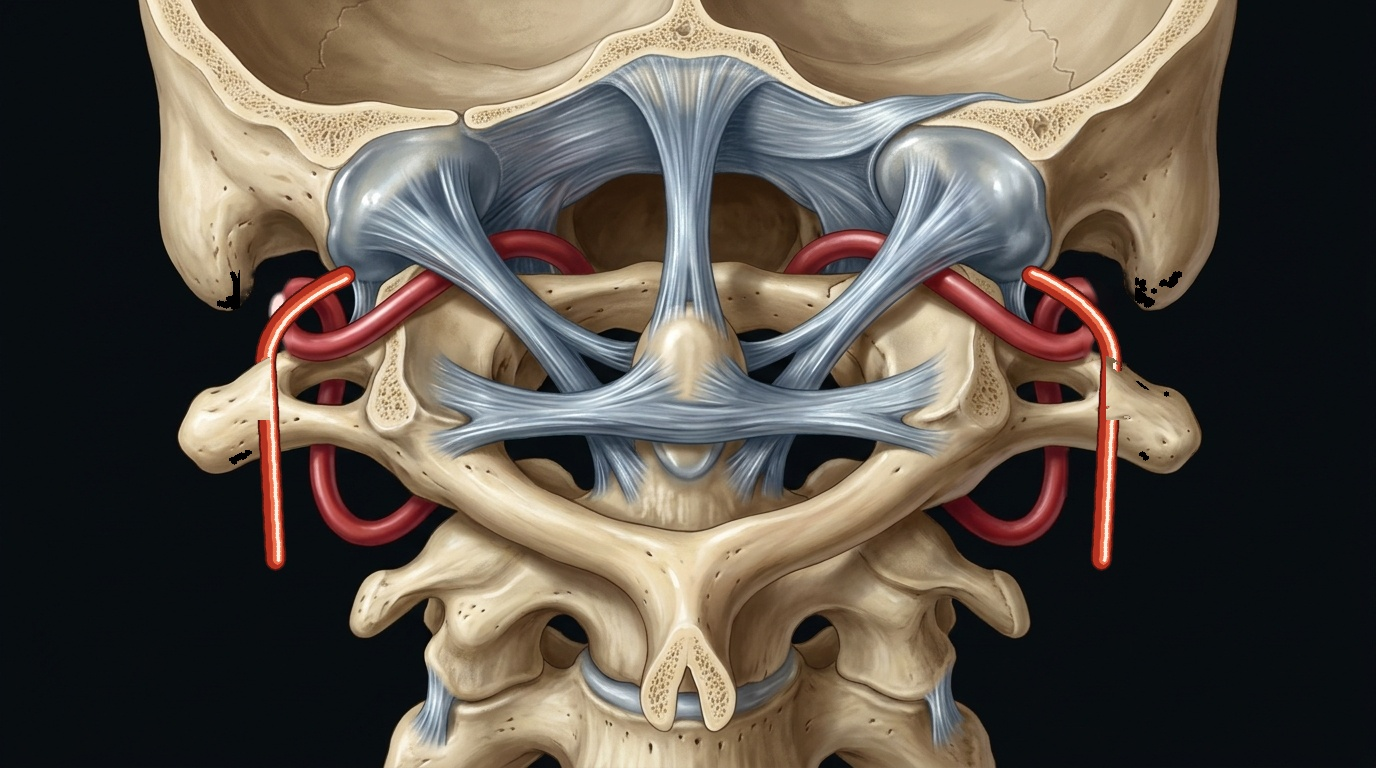
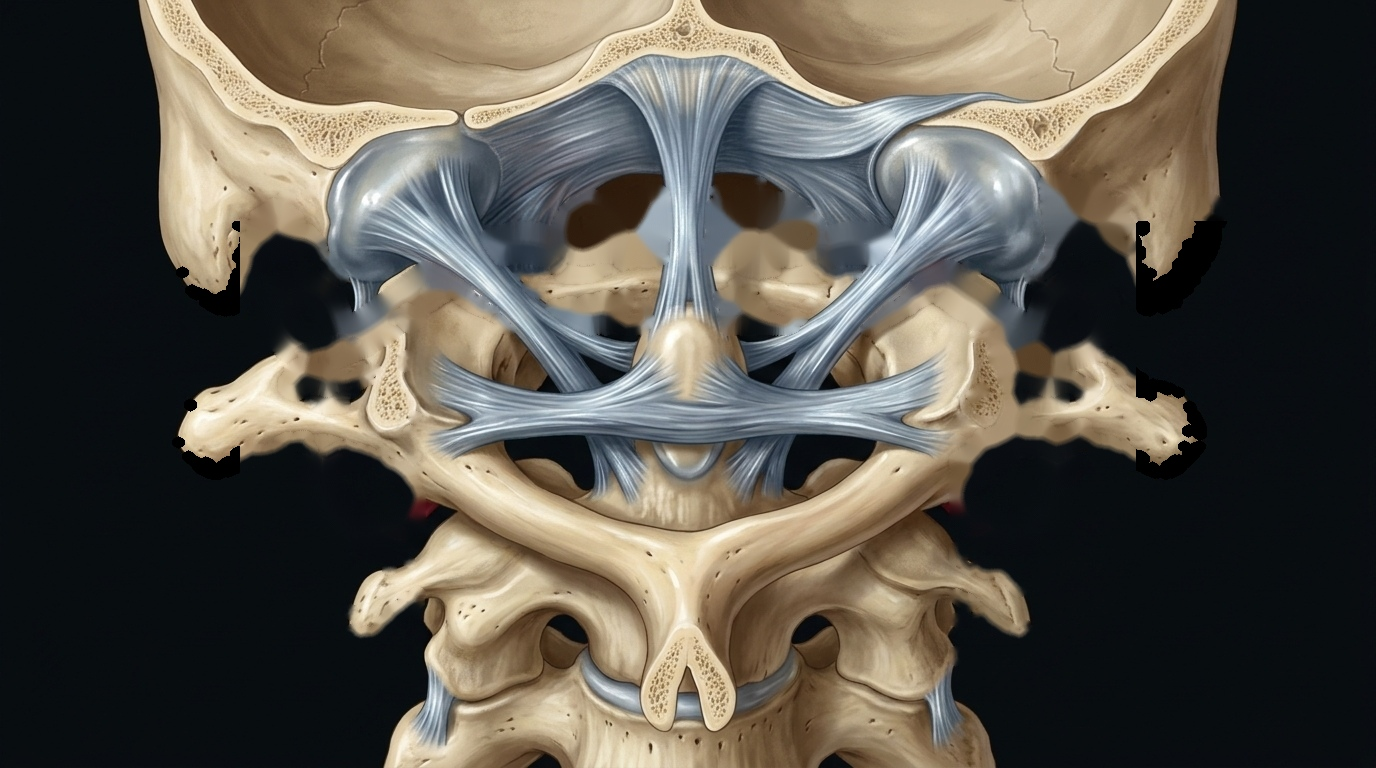
Atlas updates: Penfield #4 on Plate 11, artery cleared on Plate 13, readable text on Plate 10

diff --git a/emulator/index.html b/emulator/index.html
@@ -1500,7 +1500,7 @@
       {
         "title": "Vertebral Artery V3 Segment",
         "type": "VASCULAR CORRIDOR",
-        "desc": "Vertebral artery slung with vessel loop over C1 groove.",
+        "desc": "Vertebral artery V3 segment elevated and mobilized medially using Penfield #4 probe over C1 groove.",
         "pearl": "Drill posterior 1/3 of occipital condyle for flat skull base trajectory without brainstem retraction.",
         "x": 52,
         "y": 54
@@ -1525,7 +1525,7 @@
       {
         "num": 3,
         "title": "Vertebral Artery Mobilization",
-        "detail": "Sharply release fibrous collar, sling V3 loop, and mobilize artery inferiorly."
+        "detail": "Sharply release fibrous collar and gently mobilize V3 loop medially with Penfield #4 dissector."
       },
       {
         "num": 4,
@@ -1533,7 +1533,7 @@
         "detail": "Drill posterior 1/3 of occipital condyle. Open dura along skull base floor."
       }
     ],
-    "curatedStatus": "Metallic Micro-Probe Retracting V3 Medially"
+    "curatedStatus": "Penfield #4 Dissector Elevating V3 Medially"
   },
   {
     "id": "chiari_decompression",
@@ -1623,7 +1623,7 @@
         "detail": "Reduce atlantoaxial subluxation under fluoroscopy. Decorticate bone and pack autologous cancellous bone graft."
       }
     ],
-    "curatedStatus": "Bilateral Vertebral Artery in Foramen Transversarium"
+    "curatedStatus": "Pure Ligamentous & Bony Anatomy (Artery Removed)"
   },
   {
     "id": "harms_c1_c2",
@@ -2058,7 +2058,7 @@
                 let stepsHtml = (currentAtlasPlate.steps || []).map(s => `
                     <div style="display: flex; gap: 10px; margin-bottom: 8px; font-size: 12px; line-height: 1.4;">
                         <span style="color: #38bdf8; font-weight: 800;">${s.num}.</span>
-                        <div><strong style="color: #f1f5f9;">${s.title}:</strong> <span style="color: #94a3b8;">${s.desc}</span></div>
+                        <div><strong style="color: #f1f5f9;">${s.title}:</strong> <span style="color: #94a3b8;">${s.detail || s.desc || ''}</span></div>
                     </div>
                 `).join('');
 

diff --git a/RadixApp/Views/PhotorealisticSurgicalAtlasView.swift b/RadixApp/Views/PhotorealisticSurgicalAtlasView.swift
@@ -893,7 +893,7 @@ public enum SurgicalPlateType: String, CaseIterable {
                     color: ObsidianTheme.neonRose,
                     normalizedX: 0.52,
                     normalizedY: 0.54,
-                    description: "Vertebral artery slung with vessel loop over C1 groove.",
+                    description: "Vertebral artery V3 segment elevated and mobilized medially using Penfield #4 probe over C1 groove.",
                     surgicalPearl: "Drill posterior 1/3 of occipital condyle for flat skull base trajectory without brainstem retraction."
                 )
             ]
@@ -1251,7 +1251,7 @@ public enum SurgicalPlateType: String, CaseIterable {
                 ApproachSequentialStep(
                     stepNumber: 3,
                     title: "Vertebral Artery Mobilization",
-                    detail: "Sharply release fibrous collar, sling V3 loop, and mobilize artery inferiorly."
+                    detail: "Sharply release fibrous collar and gently mobilize V3 loop medially with Penfield #4 dissector."
                 ),
                 ApproachSequentialStep(
                     stepNumber: 4,
